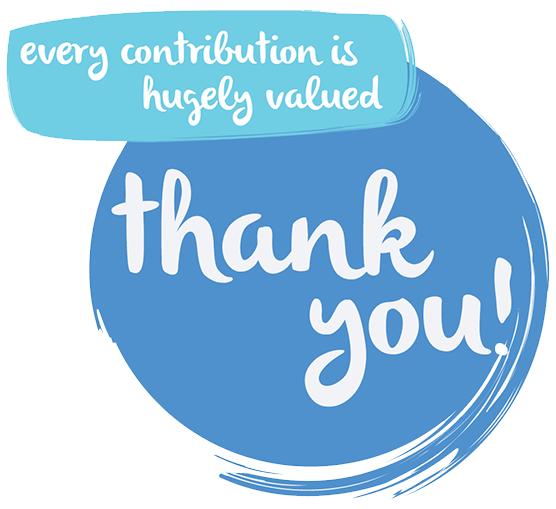
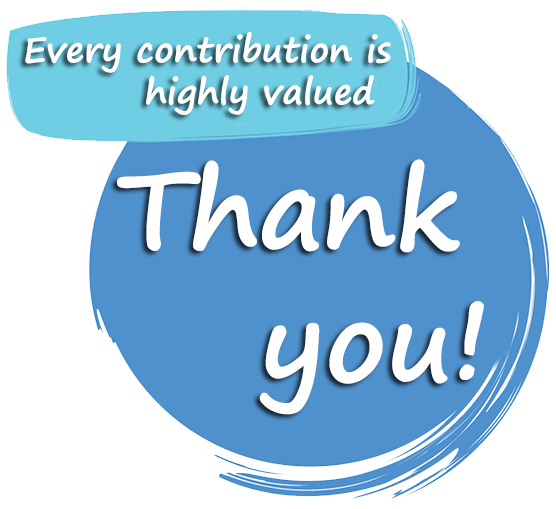
modifed pages left

Changed region(s): [[0.1835, 0.2947, 0.8255, 0.5599], [0.0306, 0.0589, 0.7032, 0.2652], [0.4586, 0.501, 0.9173, 0.8251]]

diff --git a/src/components/DonateWrong.js b/src/components/DonateWrong.js
@@ -1,6 +1,8 @@
 import React,{Component} from 'react';
 import img from '../resources/img/cancel.png';
 import { Link } from "react-router-dom";
+import themeHandler from '../common/ThemeHandler';
+import { manageLanguage, getSelectedLanguage } from '../common/Utils';
 
 var linkStyle = {
     'text-decoration':'underline'
@@ -15,13 +17,27 @@ class DonateWrong extends Component{
 
     constructor(props){
         super(props);
+        this.state = {
+            language: 'english'
+        }
     }
+
+    componentWillReceiveProps(nextProps) {
+        this.setState({ language: getSelectedLanguage() });
+    }
+
+    componentDidMount() {
+        themeHandler("default");
+        this.setState({ language: getSelectedLanguage() });
+    }
+
+
     render(){
         return(
             <div>
                 <center>
                 <img className="img-small" src={img} />
-                <label style={label}>We regret that you have canceled your donation, if something happened or you have something to communicate, please do not hesitate to contact us.  <Link style={linkStyle} to="contact">Click here to tell us</Link></label>
+                <label style={label}>{manageLanguage(this.state.language,'Lamentamos que haya cancelado su donación, si sucedió algo o si tiene algo que comunicar, no dude en ponerse en contacto con nosotros.','We regret that you have canceled your donation, if something happened or you have something to communicate, please do not hesitate to contact us.')}  <Link style={linkStyle} to="contact">{manageLanguage(this.state.language,'Haga clic aquí para decirnos','Click here to tell us')}</Link></label>
                 </center>
             </div>
         );

diff --git a/src/components/DonateThanks.js b/src/components/DonateThanks.js
@@ -1,17 +1,33 @@
 import React, { Component } from 'react';
 import img from '../resources/img/thankyou.png';
+import imgES from '../resources/img/thankyou-es.png';
 import { Link } from "react-router-dom";
+import themeHandler from '../common/ThemeHandler';
+import {getSelectedLanguage } from '../common/Utils';
 
 class DonateThanks extends Component {
 
     constructor(props) {
         super(props);
+        this.state = {
+            language: 'english'
+        }
     }
+
+    componentWillReceiveProps(nextProps) {
+        this.setState({ language: getSelectedLanguage() });
+    }
+
+    componentDidMount() {
+        themeHandler("default");
+        this.setState({ language: getSelectedLanguage() });
+    }
+
     render() {
         return (
             <Link to="/post/all">
                 <center>
-                    <img className="img-welcome" src={img} />
+                    <img style={{ width: '600px'}} className="img-welcome" src={this.state.language === 'english' ?  img : imgES} />
                 </center>
             </Link>
         );
